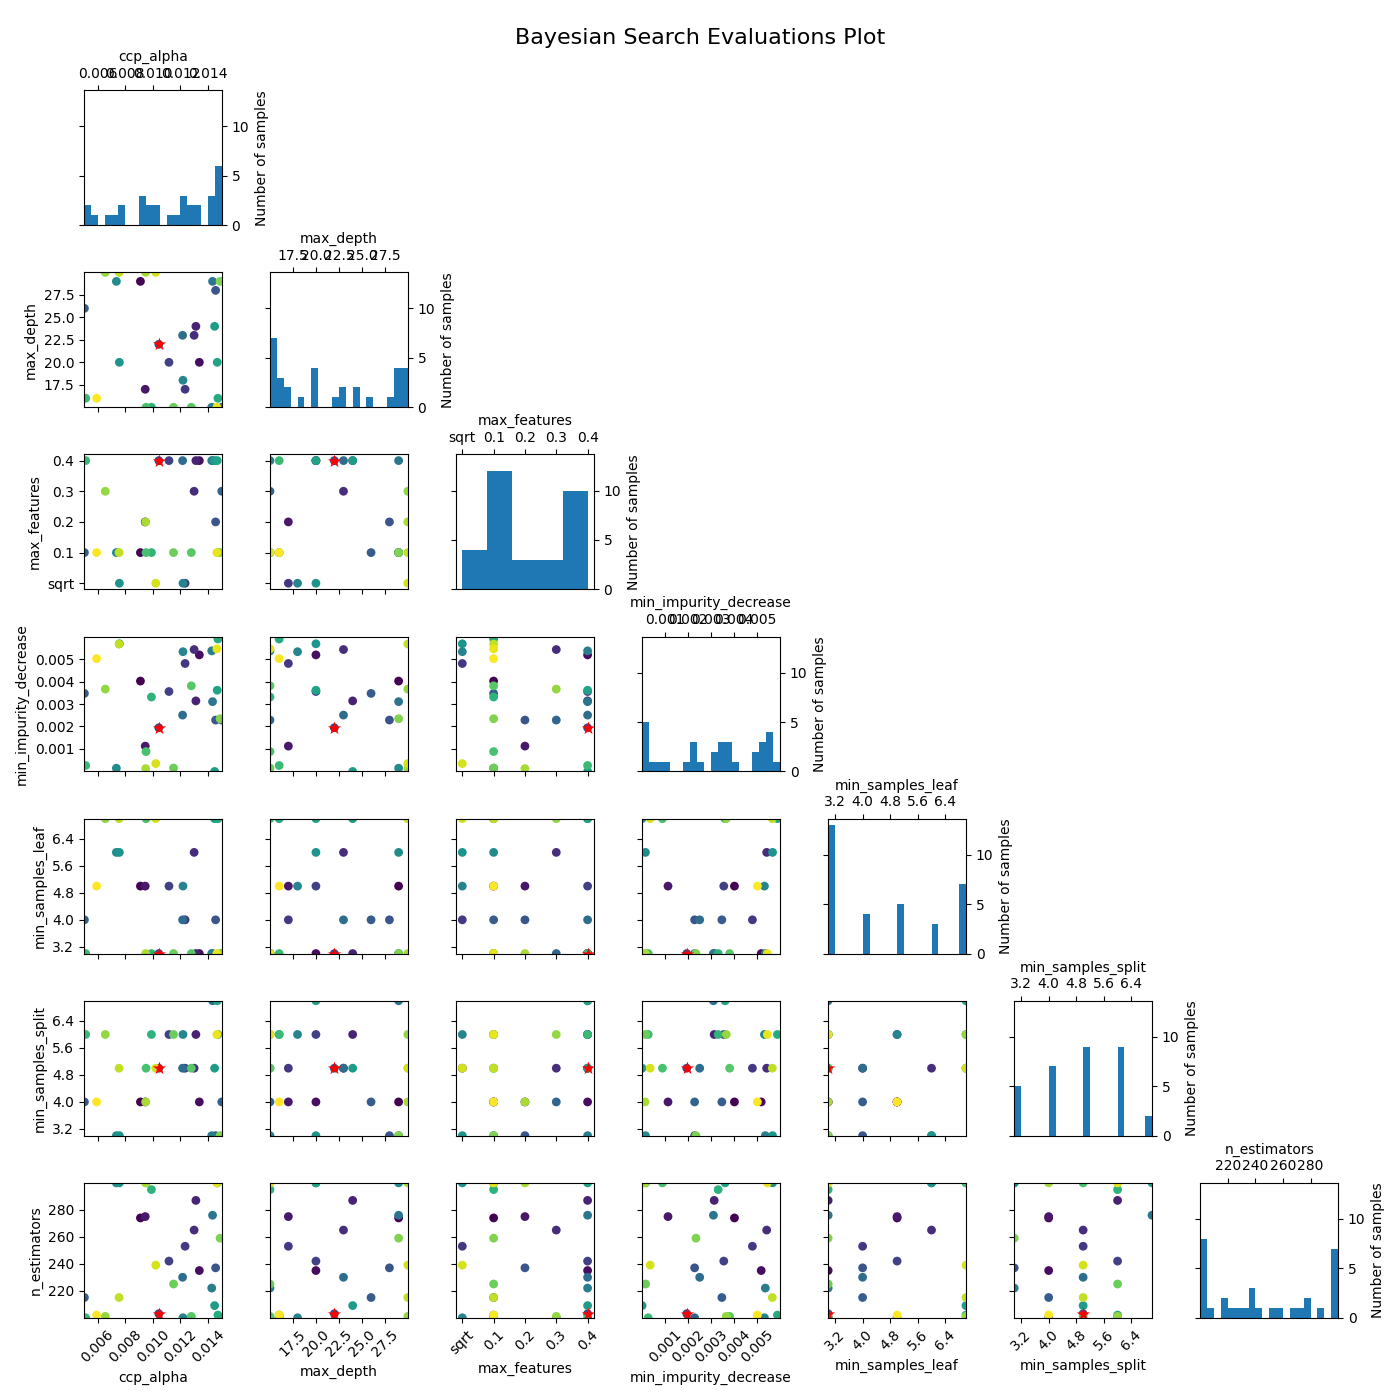
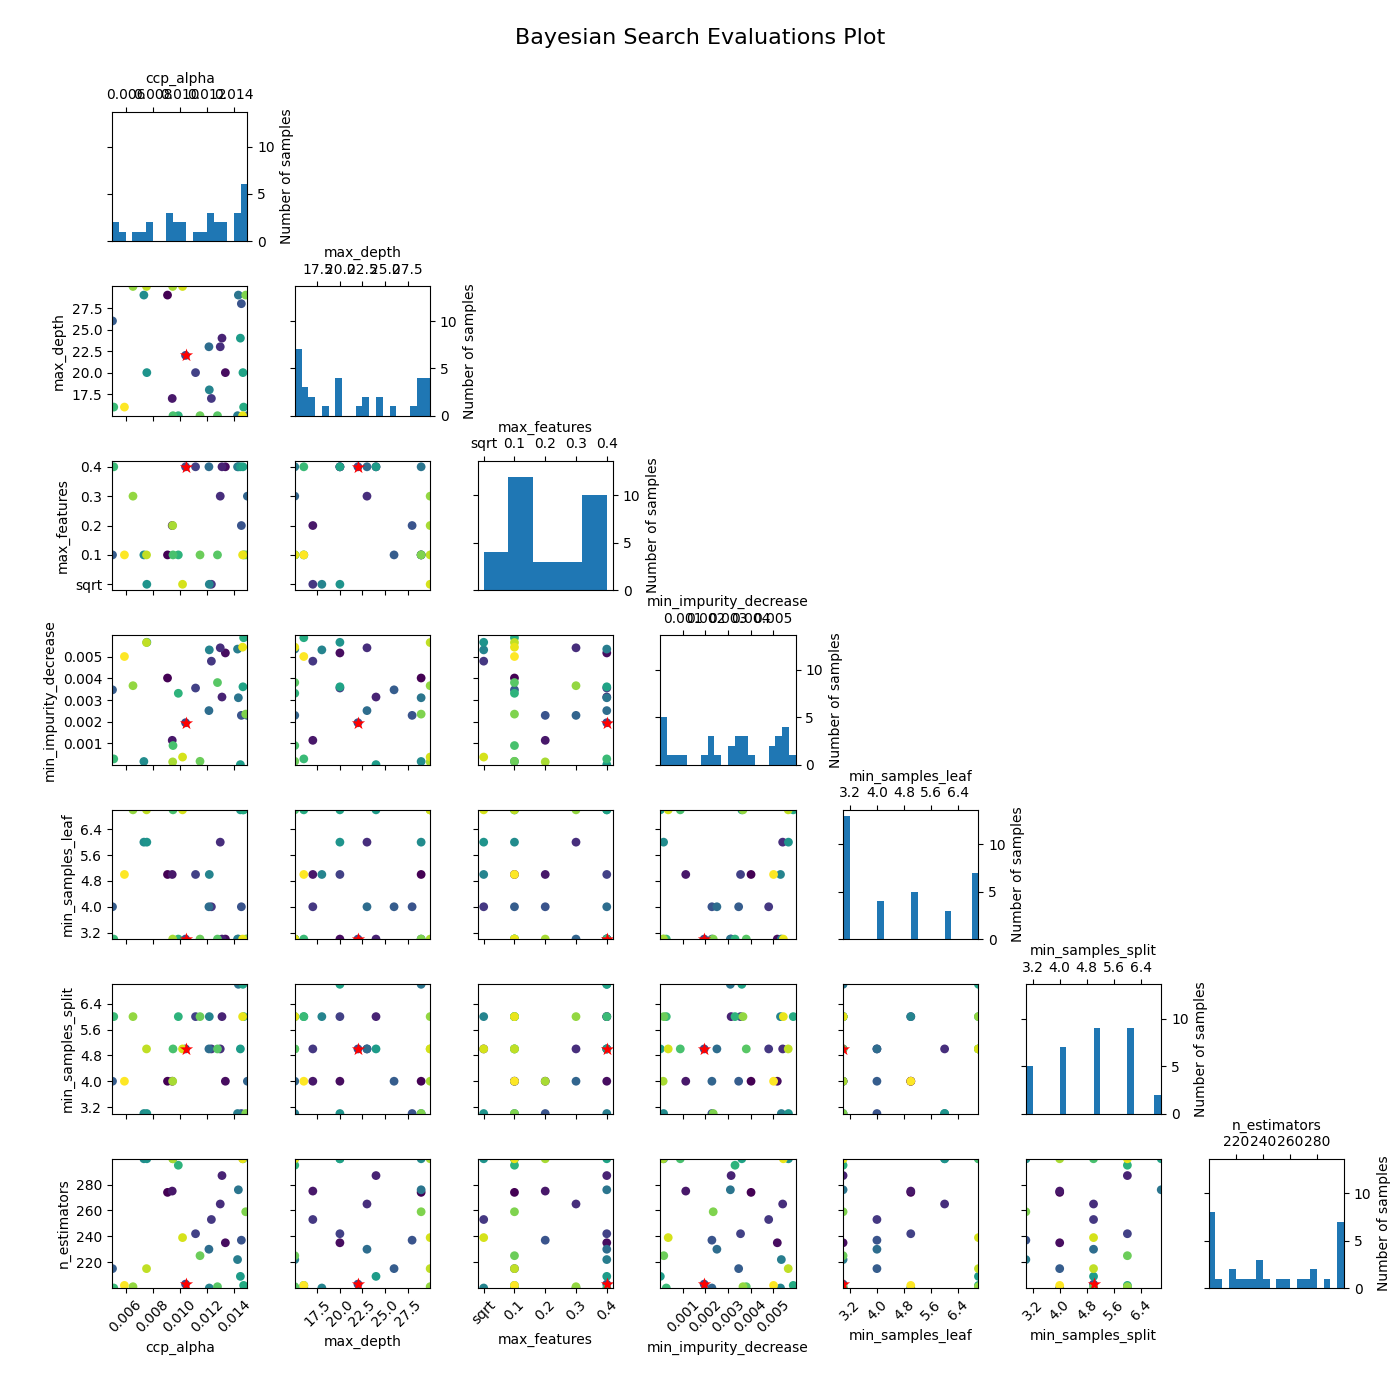
Added graph saving for every script in a dedicated folder. Tried solving overlapping axis problem, but needs further adjusting. Added 2_results_load_only.py compatibility with every created model.

diff --git a/2_results_load_only.py b/2_results_load_only.py
@@ -12,6 +12,7 @@ from sklearn.model_selection import cross_val_score
 from sklearn.model_selection import cross_val_predict
 from sklearn.metrics import confusion_matrix
 from sklearn.metrics import precision_score, recall_score, f1_score
+import os
 
 #------------------------------------------------------------------
 # DOWNLOAD & PREPARATION OF THE DATASET
@@ -53,16 +54,26 @@ print(f"Shape of y_test: {y_test.shape}\n")
 # MODEL & DATAFRAME LOADING
 #------------------------------------------------------------------
 
-# Loading best model and results of the random search
-rs_df = pd.read_csv('rs_dataframe.csv')
-rs_model = joblib.load('rs_model.pkl')
+# Uncomment to use rs_model (Random Search)
+df = pd.read_csv('rs_dataframe.csv')
+model = joblib.load('rs_model.pkl')
+
+# Uncomment to use gs_model (Grid Search)
+# df = pd.read_csv('gs_dataframe.csv')
+# model = joblib.load('gs_model.pkl')
+
+# Uncomment to use bs_model (Bayesian Search)
+# df = pd.read_csv('bs_dataframe.csv')
+# model = joblib.load('bs_model.pkl')
+
+os.makedirs('analysis_graphs', exist_ok=True)
 
 #------------------------------------------------------------------
 # HYPERPARAMETER IMPACT ANALYSIS GRAPHICS
 #------------------------------------------------------------------
 
 # Winner extraction for graphics
-winner = rs_df[rs_df['rank_test_score'] == 1].iloc[0]
+winner = df[df['rank_test_score'] == 1].iloc[0]
 
 parameters = ['param_n_estimators', 'param_max_depth', 'param_min_samples_split', 'param_min_samples_leaf',
               'param_ccp_alpha', 'param_criterion', 'param_max_features', 'param_min_impurity_decrease']
@@ -75,14 +86,14 @@ for i, param in enumerate(parameters):
 
     plt.subplot(4, 2, i + 1)
     # Sort by numeric values of the parameter for a cleaner line plot
-    numeric_col = pd.to_numeric(rs_df[param], errors='coerce')
+    numeric_col = pd.to_numeric(df[param], errors='coerce')
     if numeric_col.notna().any():
-        df_plot = rs_df.assign(_num=numeric_col).sort_values(by="_num").drop(columns="_num")
+        df_plot = df.assign(_num=numeric_col).sort_values(by="_num").drop(columns="_num")
     else:
-        df_plot = rs_df.copy()
+        df_plot = df.copy()
 
     # Transform to string for better x-axis labels & 'None' handling
-    df_plot[param] = rs_df[param].astype(object)
+    df_plot[param] = df[param].astype(object)
     df_plot[param] = df_plot[param].where(df_plot[param].notna(), 'None')
     df_plot[param] = df_plot[param].astype(str)
 
@@ -128,13 +139,14 @@ for i, param in enumerate(parameters):
     plt.grid(axis='y', linestyle='--', alpha=0.5)
 
 plt.tight_layout()
+plt.savefig('analysis_graphs/parameter_importance.png')
 plt.show()
 
 #------------------------------------------------------------------
 # ACCURACY SCORES
 #------------------------------------------------------------------
 
-acc_scores = cross_val_score(rs_model, X_train, y_train, cv=5, scoring="accuracy")
+acc_scores = cross_val_score(model, X_train, y_train, cv=5, scoring="accuracy")
 print(f"Accuracy Scores: {acc_scores}")
 print(f"Mean Accuracy: {acc_scores.mean()}")
 
@@ -142,7 +154,7 @@ print(f"Mean Accuracy: {acc_scores.mean()}")
 # CONFUSION MATRIX
 #------------------------------------------------------------------
 
-y_train_pred = cross_val_predict(rs_model, X_train, y_train, cv=5)
+y_train_pred = cross_val_predict(model, X_train, y_train, cv=5)
 cm = confusion_matrix(y_train, y_train_pred)
 
 plt.figure()
@@ -153,6 +165,7 @@ plt.xlabel('Prediction')
 plt.ylabel('Reality')
 plt.title('Confusion Matrix of RF')
 plt.tight_layout()
+plt.savefig('analysis_graphs/confusion_matrix.png')
 plt.show()
 
 #------------------------------------------------------------------

diff --git a/4_bayes_search_optimizer.py b/4_bayes_search_optimizer.py
@@ -8,6 +8,7 @@ from sklearn.model_selection import RandomizedSearchCV
 from sklearn.model_selection import GridSearchCV
 from skopt import BayesSearchCV
 from skopt.space import Integer, Real, Categorical
+from skopt.plots import plot_convergence, plot_evaluations, plot_objective, plot_regret
 import joblib
 import seaborn as sns
 from sklearn.model_selection import cross_val_score
@@ -80,13 +81,17 @@ bs_model = bayes_search.best_estimator_
 print(f"Best score: {bayes_search.best_score_}")
 print(f"Best parameters: {bayes_search.best_params_}")
 
-# Download of the best model and results of the Bayesian search
+# Download of the best model and DataFrame of the Bayesian search
 joblib.dump(bs_model, 'bs_model.pkl')
 print("Model saved successfully.")
 
 bs_df = pd.DataFrame(bayes_search.cv_results_)
 bs_df.to_csv('bs_dataframe.csv', index=False)
 print("Dataframe saved successfully.")
+
+# Download of the optimizer results for graphics
+joblib.dump(bayes_search.optimizer_results_[0], 'bs_optimizer_results.pkl')
+print("Optimizer results saved successfully.")
 
 # Loading best model and results of the Bayesian search
 # bs_df = pd.read_csv('bs_dataframe.csv')
@@ -131,13 +136,13 @@ print(f"F1-Score: {f1_score(y_train, y_train_pred)}")
 
 os.makedirs('bs_graphs', exist_ok=True)
 
-plt.figure()
-from skopt.plots import plot_convergence
+plt.figure(figsize=(18, 12))
 plot_convergence(bayes_search.optimizer_results_[0])
 plt.title('Bayesian Search Convergence Plot')
 plt.xlabel('Number of Iterations')
 plt.ylabel('Best F1 Score')
-plt.tight_layout()
+plt.tight_layout(pad=3.5)
+plt.subplots_adjust(top=0.92, bottom=0.08, left=0.08, right=0.96)
 plt.savefig('bs_graphs/bayes_convergence_plot.png')
 plt.show()
 
@@ -145,11 +150,11 @@ plt.show()
 # SKOPT PLOT EVALUATION
 #------------------------------------------------------------------
 
-plt.figure()
-from skopt.plots import plot_evaluations
+plt.figure(figsize=(18, 12))
 plot_evaluations(bayes_search.optimizer_results_[0])
 plt.suptitle('Bayesian Search Evaluations Plot', fontsize=16)
-plt.tight_layout()
+plt.tight_layout(pad=3.5)
+plt.subplots_adjust(top=0.92, bottom=0.08, left=0.08, right=0.96)
 plt.savefig('bs_graphs/bayes_evaluations_plot.png')
 plt.show()
 
@@ -157,11 +162,11 @@ plt.show()
 # SKOPT OBJECTIVE PLOT
 #------------------------------------------------------------------
 
-plt.figure(figsize=(14, 10))
-from skopt.plots import plot_objective
+plt.figure(figsize=(20, 14))
 plot_objective(bayes_search.optimizer_results_[0])
 plt.suptitle('Bayesian Search Objective Plot', fontsize=16)
-plt.tight_layout()
+plt.tight_layout(pad=3.5)
+plt.subplots_adjust(left=0.08, right=0.96, top=0.92, bottom=0.08, hspace=0.4, wspace=0.3)
 plt.savefig('bs_graphs/bayes_objective_plot.png')
 plt.show()
 
@@ -169,13 +174,13 @@ plt.show()
 # SKOPT REGRET PLOT
 #------------------------------------------------------------------
 
-plt.figure()
-from skopt.plots import plot_regret
+plt.figure(figsize=(18, 12))
 plot_regret(bayes_search.optimizer_results_[0])
 plt.title('Bayesian Search Regret Plot')
 plt.xlabel('Number of Iterations')
 plt.ylabel('Regret')
-plt.tight_layout()
+plt.tight_layout(pad=3.5)
+plt.subplots_adjust(top=0.92, bottom=0.08, left=0.08, right=0.96)
 plt.savefig('bs_graphs/bayes_regret_plot.png')
 plt.show()
 

diff --git a/3_grid_search_optimizer.py b/3_grid_search_optimizer.py
@@ -12,6 +12,7 @@ from sklearn.model_selection import cross_val_score
 from sklearn.model_selection import cross_val_predict
 from sklearn.metrics import confusion_matrix
 from sklearn.metrics import precision_score, recall_score, f1_score
+import os
 
 #------------------------------------------------------------------
 # DOWNLOAD & PREPARATION OF THE DATASET
@@ -77,7 +78,7 @@ gs_model = grid_search.best_estimator_
 print(f"Best score: {grid_search.best_score_}")
 print(f"Best parameters: {grid_search.best_params_}")
 
-# Download of the best model and results of the random search
+# Download of the best model and DataFrame of the grid search
 joblib.dump(gs_model, 'gs_model.pkl')
 print("Model saved successfully.")
 
@@ -85,7 +86,7 @@ gs_df = pd.DataFrame(grid_search.cv_results_)
 gs_df.to_csv('gs_dataframe.csv', index=False)
 print("Dataframe saved successfully.")
 
-# Loading best model and results of the random search
+# Loading best model and results of the grid search
 # gs_df = pd.read_csv('gs_dataframe.csv')
 # gs_model = joblib.load('gs_model.pkl')
 
@@ -104,6 +105,8 @@ print(f"Mean Accuracy: {acc_scores.mean()}")
 y_train_pred = cross_val_predict(gs_model, X_train, y_train, cv=5)
 cm = confusion_matrix(y_train, y_train_pred)
 
+os.makedirs('gs_graphs', exist_ok=True)
+
 plt.figure(figsize=(8, 6))
 sns.heatmap(cm, annot=True, fmt='d', cmap='Reds',
             xticklabels=['Benign (Pred)', 'Malignant (Pred)'],
@@ -112,6 +115,7 @@ plt.xlabel('Prediction')
 plt.ylabel('Reality')
 plt.title('Confusion Matrix of RF')
 plt.tight_layout()
+plt.savefig('gs_graphs/gs_confusion_matrix.png')
 plt.show()
 
 #------------------------------------------------------------------

diff --git a/1_rf_model_creator_random_search.py b/1_rf_model_creator_random_search.py
@@ -12,6 +12,7 @@ from sklearn.model_selection import cross_val_score
 from sklearn.model_selection import cross_val_predict
 from sklearn.metrics import confusion_matrix
 from sklearn.metrics import precision_score, recall_score, f1_score
+import os
 
 #------------------------------------------------------------------
 # DOWNLOAD & PREPARATION OF THE DATASET
@@ -79,7 +80,7 @@ rs_model = random_search.best_estimator_
 print(f"Best F1 score: {random_search.best_score_}\n") 
 print(f"Best Parameters: {random_search.best_params_}\n")
 
-# Download of the best model and results of the random search
+# Download of the best model and DataFrame of the random search
 joblib.dump(rs_model, 'rs_model.pkl')
 print("Model saved successfully.\n")
 
@@ -100,6 +101,8 @@ winner = rs_df[rs_df['rank_test_score'] == 1].iloc[0]
 
 parameters = ['param_n_estimators', 'param_max_depth', 'param_min_samples_split', 'param_min_samples_leaf',
               'param_ccp_alpha', 'param_criterion', 'param_max_features', 'param_min_impurity_decrease']
+
+os.makedirs('rs_graphs', exist_ok=True)
 
 plt.figure()
 plt.subplots_adjust(hspace=0.5, wspace=0.3)
@@ -162,6 +165,7 @@ for i, param in enumerate(parameters):
     plt.grid(axis='y', linestyle='--', alpha=0.5)
 
 plt.tight_layout()
+plt.savefig('rs_graphs/rs_parameter_importance.png')
 plt.show()
 
 #------------------------------------------------------------------
@@ -187,6 +191,7 @@ plt.xlabel('Prediction')
 plt.ylabel('Reality')
 plt.title('Confusion Matrix of RF')
 plt.tight_layout()
+plt.savefig('rs_graphs/rs_confusion_matrix.png')
 plt.show()
 
 #------------------------------------------------------------------

diff --git a/5_graphics.py b/5_graphics.py
@@ -27,6 +27,10 @@ model = joblib.load('rs_model.pkl')
 # df = pd.read_csv('gs_dataframe.csv')
 # model = joblib.load('gs_model.pkl')
 
+# Uncomment to use bs_model (Bayesian Search)
+# df = pd.read_csv('bs_dataframe.csv')
+# model = joblib.load('bs_model.pkl')
+
 #------------------------------------------------------------------
 # DOWNLOAD & PREPARATION OF THE DATASET
 #------------------------------------------------------------------
